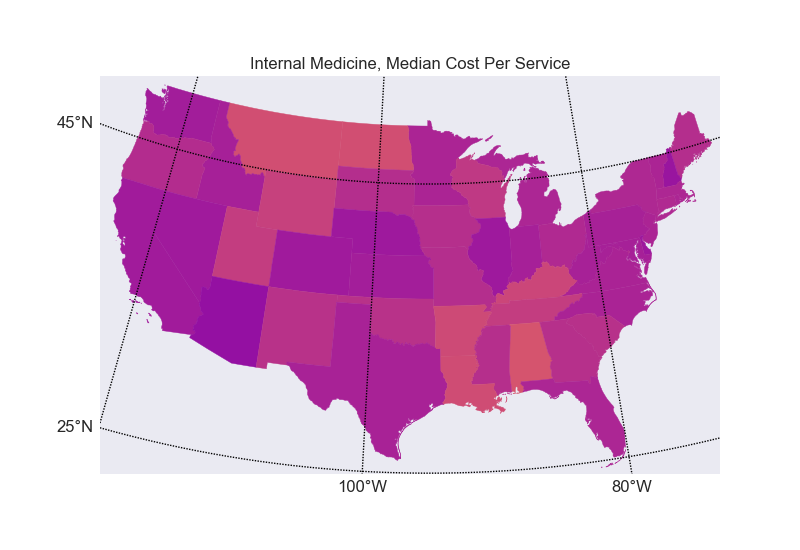
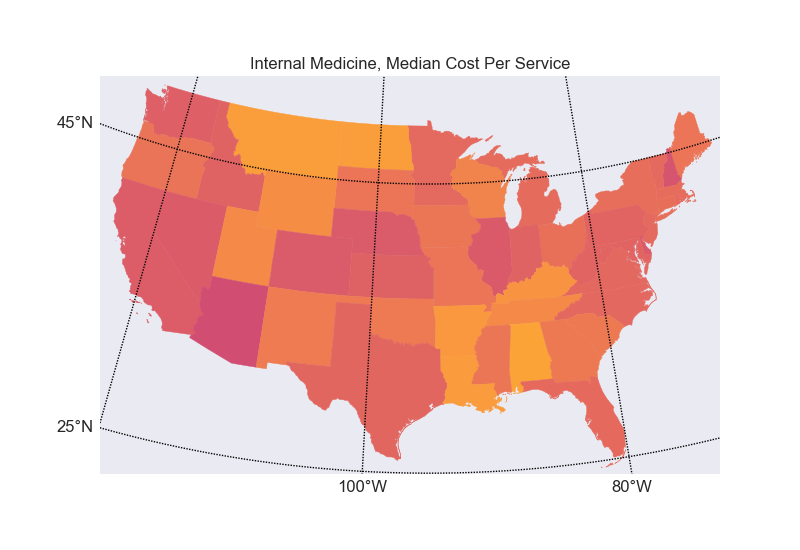
add maps for several provider_types

diff --git a/cms_explore.py b/cms_explore.py
@@ -6,7 +6,7 @@ import numpy as np
 import pandas as pd
 
 # from calc_by_states import calc_by_states
-from state_maps import make_state_map
+from state_maps import make_state_map, get_basemap
 
 from plot_methods import make_plotdir, print_all_rows, make_hist_plots, plot_hists, \
         make_bar_plot, make_scatter_plot, make_group_bar_plots
@@ -234,16 +234,26 @@ def calc_by_states(df):
     plotdir = make_plotdir(plotdir='cms_state_plots/')
     agg_fns = ['count','median']
     p_group = calc_par_group(df, agg_fns, ['provider_type','nppes_provider_state'], ['pay_per_person','pay_per_service'], print_out=False)
-
 #   print('index\n', p_group.index)
-#   p_group['avg_age'] = p_group['total_age']['sum'] / p_group['total_unique_benes']['sum']
-#   im = p_group.ix['Internal Medicine']
-    im = (p_group.ix['Internal Medicine']['pay_per_service']['median']).copy()
-    print('Internal Medicine\n', im)
+
+    bmap = get_basemap()  # read file once for all maps
+#   print(bmap.states_info[0].keys())
+    im = p_group.ix['Internal Medicine']['pay_per_service']['median']
+#   print('Internal Medicine\n', im)
     mmin, mmax = (0.9*im.min(), 1.1*im.max())  # should all be same scale?
-    print('min %g, max %g' % (mmin, mmax))  # should all be same scale?
+#   print('min %g, max %g' % (mmin, mmax))  # should all be same scale?
 #   print('Internal Medicine, Pay Per Service Median\n', im['pay_per_service']['median'])
-    make_state_map(im, mmin, mmax, plotdir, 'cost_per_service_internal_medicine', 'Internal Medicine, Median Cost Per Service')
+    make_state_map(bmap, im, mmin, mmax, plotdir, 'cost_per_service_internal_medicine', 'Internal Medicine, Median Cost Per Service')
+
+    im = p_group.ix['General Surgery']['pay_per_service']['median']
+#   print('General Surgery\n', im)
+    mmin, mmax = (0.9*im.min(), 1.1*im.max())  # should all be same scale?
+    make_state_map(bmap, im, mmin, mmax, plotdir, 'cost_per_service_general_surgery', 'General Surgery, Median Cost Per Service')
+
+    im = p_group.ix['Physical Therapist']['pay_per_service']['median']
+    print('Physical Therapist\n', im)
+    mmin, mmax = (0.9*im.min(), 1.1*im.max())  # should all be same scale?
+    make_state_map(bmap, im, mmin, mmax, plotdir, 'cost_per_service_physical_therapist', 'Physical Therapist, Median Cost Per Service')
 
 
 def main():

diff --git a/state_maps.py b/state_maps.py
@@ -1,7 +1,6 @@
 # make state maps from input data
 # use Basemap
 
-import numpy as np
 import matplotlib.pyplot as plt
 from mpl_toolkits.basemap import Basemap as Basemap
 from matplotlib.colors import rgb2hex
@@ -19,7 +18,7 @@ def get_full_states():
         'California':     {'abbr':'CA'},
         'Colorado':       {'abbr':'CO'},
         'Connecticut':    {'abbr':'CT'},
-        'District of Columbia': {'abbr':'DC'},
+#       'District of Columbia': {'abbr':'DC'},
         'Delaware':       {'abbr':'DE'},
         'Florida':        {'abbr':'FL'},
         'Georgia':        {'abbr':'GA'},
@@ -80,9 +79,10 @@ def set_colors(df, states, mmin, mmax):
     cmap = plt.cm.plasma
 #   cmap = plt.cm.hot
 #   cmap = plt.cm.coolwarm
+# issue for rare providers: state may not be in df.ix
     for state,val in states.items():
         dval = df.ix[states[state]['abbr']]
-        states[state]['color'] = rgb2hex(cmap(1.0 - np.sqrt((dval-mmin)/(mmax-mmin)))[:3])
+        states[state]['color'] = rgb2hex(cmap(1.0 - pow((dval-mmin)/(mmax-mmin), 1.0))[:3])
     return states
 
 def plot_map(m, states, plotdir, fname, label):
@@ -92,7 +92,7 @@ def plot_map(m, states, plotdir, fname, label):
     ax = f.add_subplot(111)
     for shapedict, seg in zip(m.states_info, m.states):
         statename = shapedict['NAME']
-        if statename not in ['Puerto Rico']:
+        if statename not in ['District of Columbia','Puerto Rico']:
             color = states[statename]['color']
             poly = Polygon(seg,facecolor=color,edgecolor=color)
             ax.add_patch(poly)
@@ -103,15 +103,12 @@ def plot_map(m, states, plotdir, fname, label):
     plt.savefig(pname)
     print('saved plot %s' % pname)
 
-def make_state_map(df, mmin, mmax, plotdir, fname, label):
+def make_state_map(m, df, mmin, mmax, plotdir, fname, label):
     "make state map from data frame"
     print('make state map: %s' % label)
-    print('WY\n', df.ix['WY'], type(df))
-    m = get_basemap()
-    print(m.states_info[0].keys())
     states = get_full_states()
     states = set_colors(df, states, mmin, mmax)
-    print('states', states)
+#   print('states', states)
     plot_map(m, states, plotdir, fname, label)
 
 
